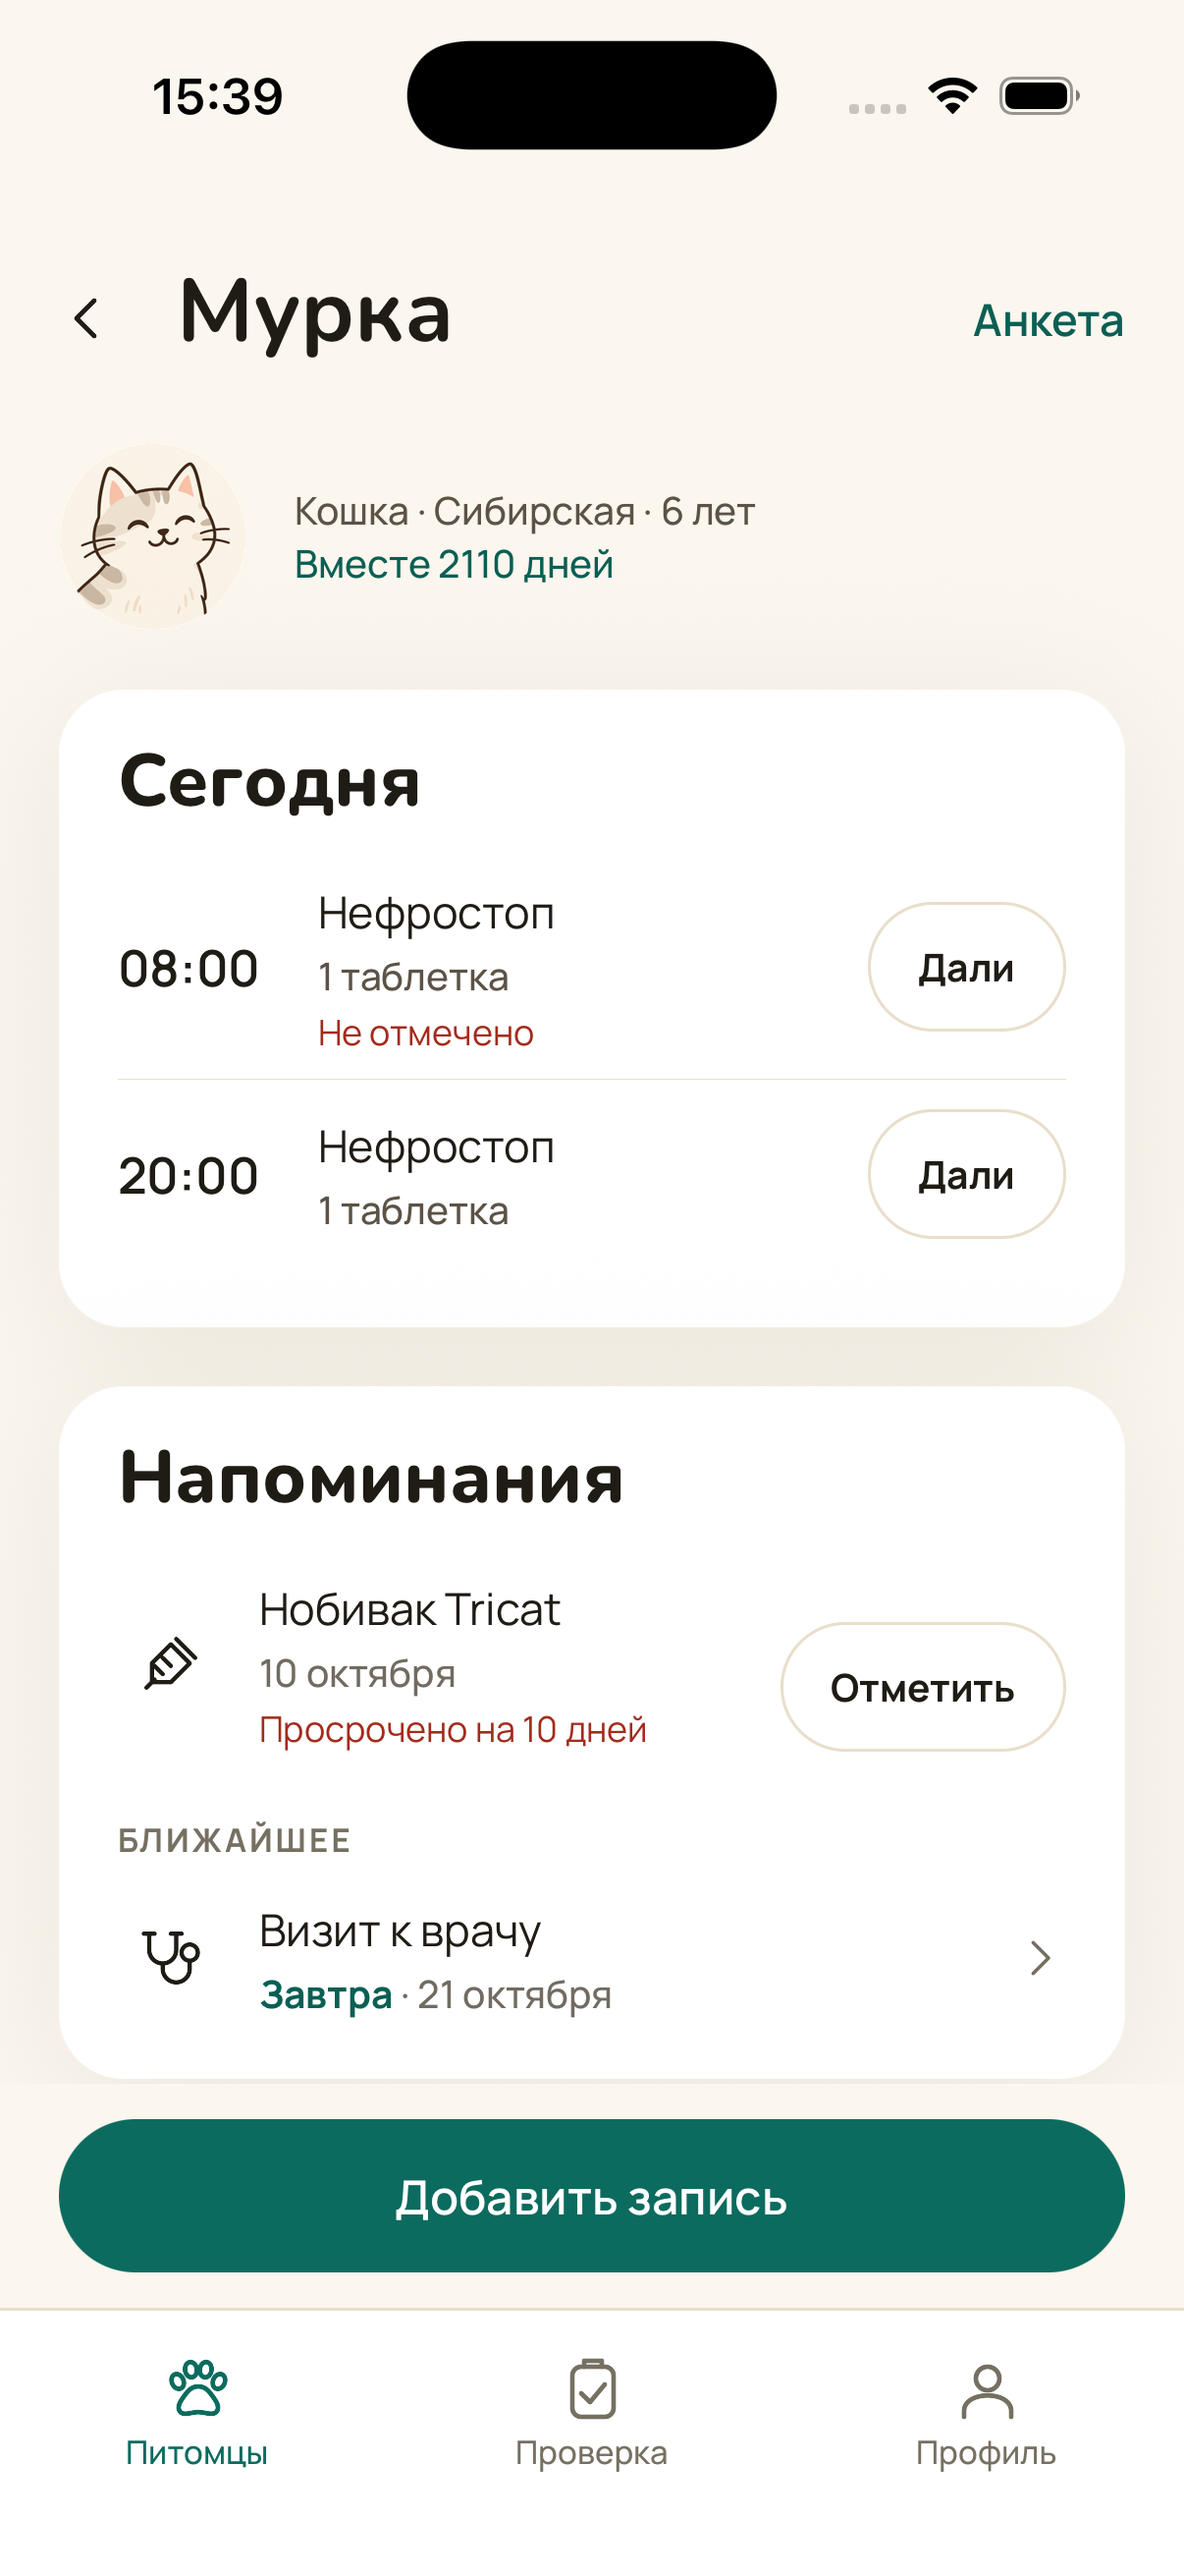
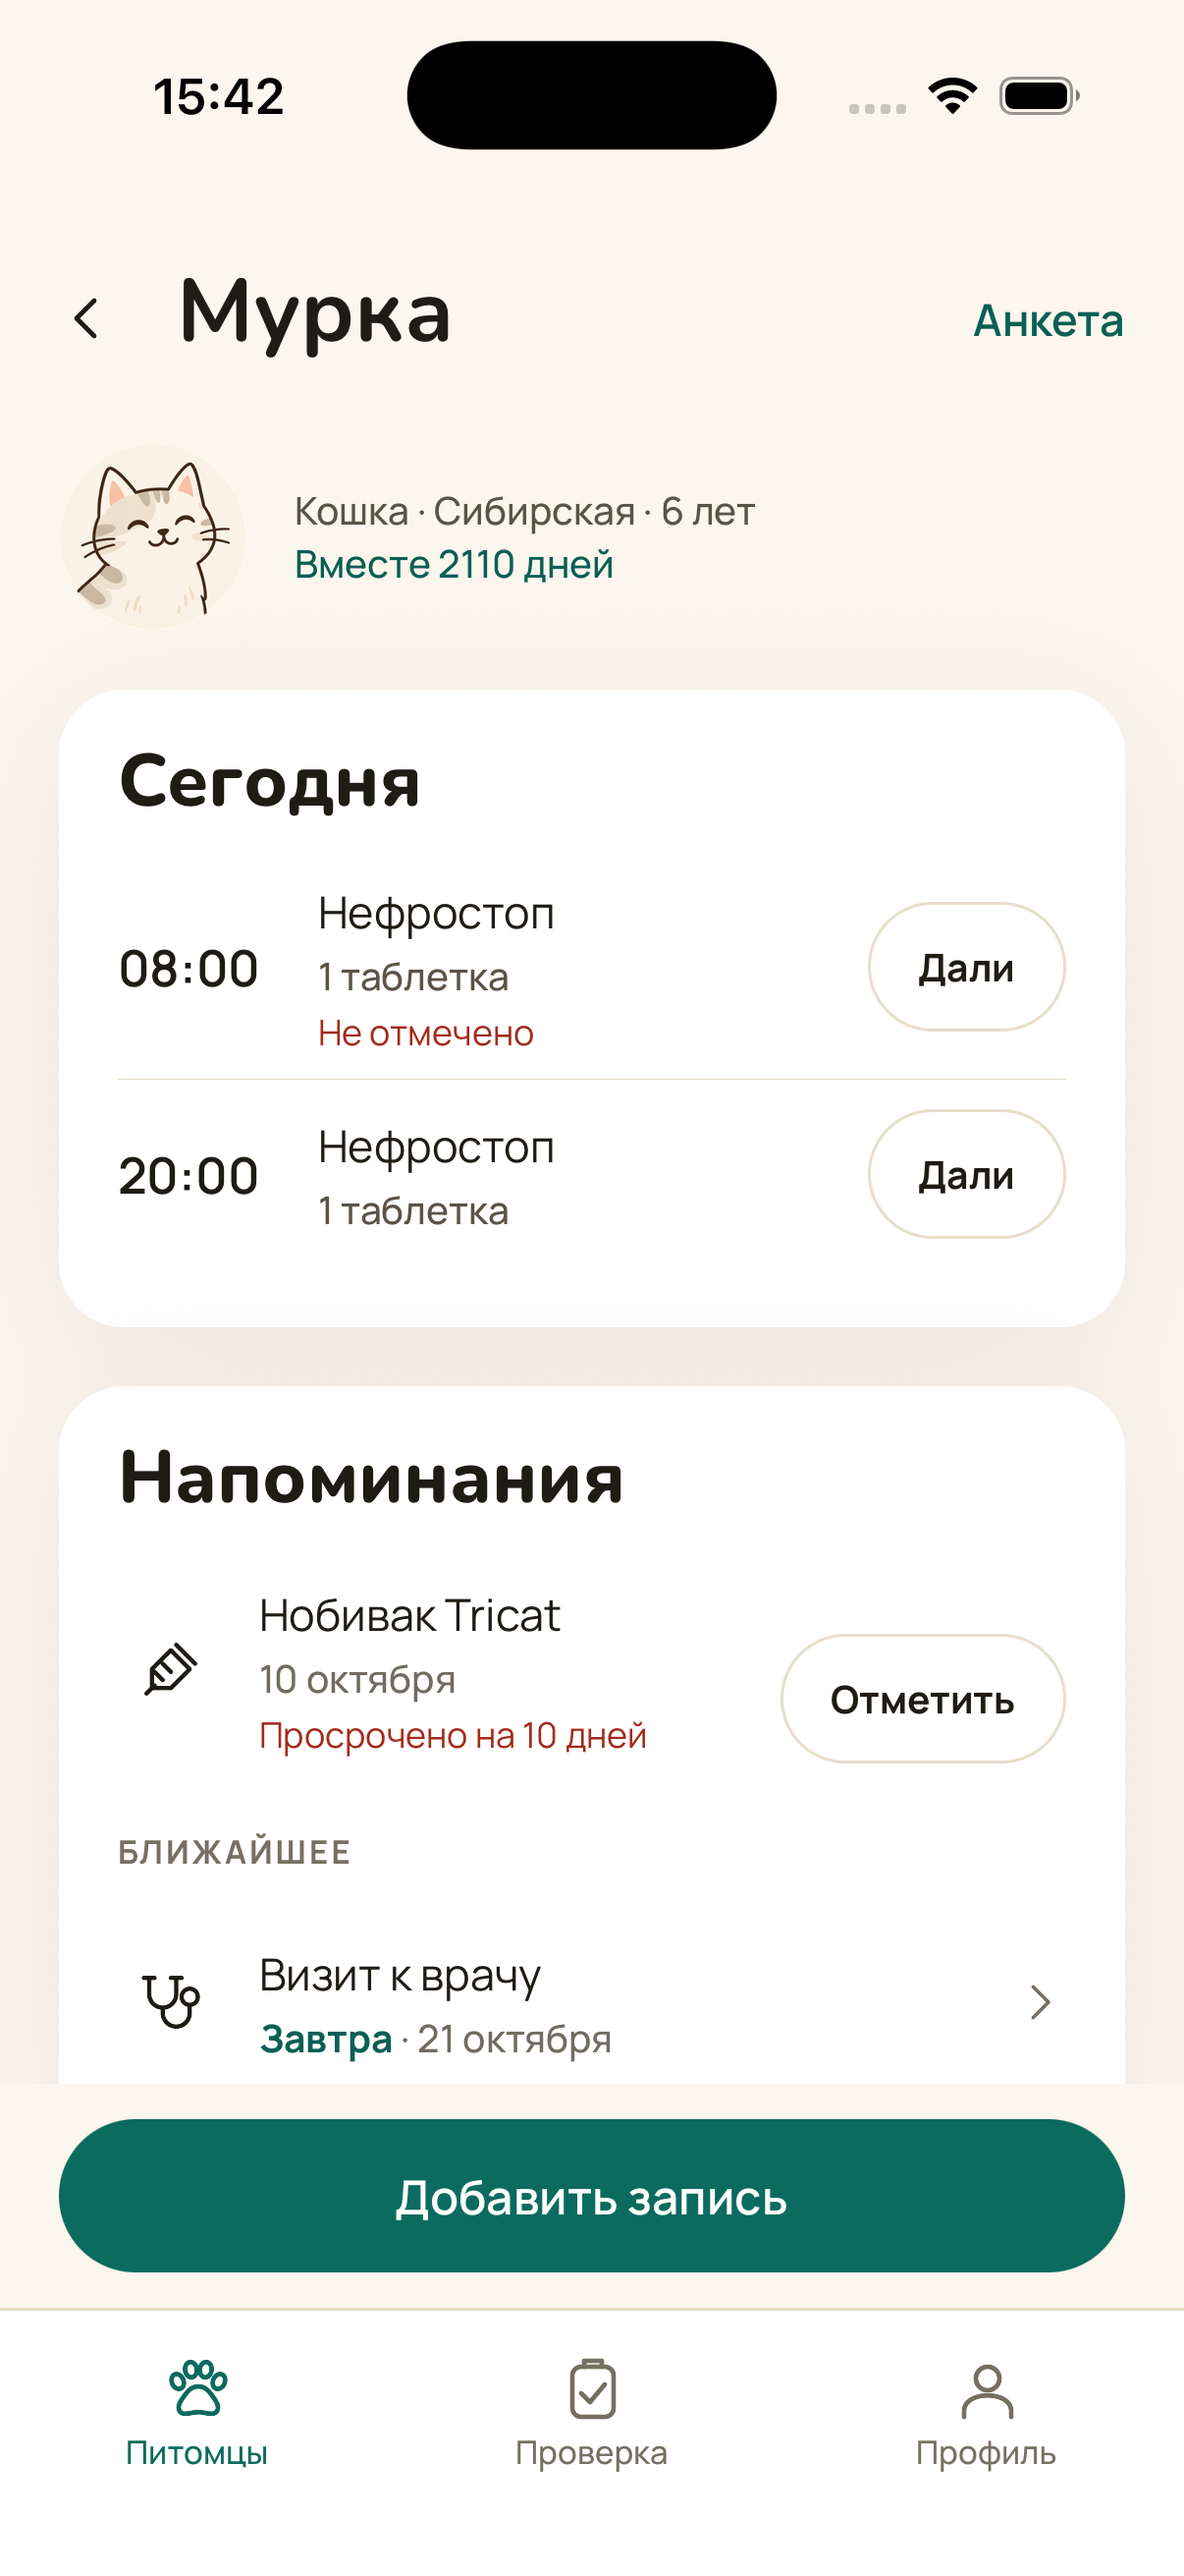
Design: a thin line between rows of «Напоминания», as in «Сегодня»

diff --git a/apps/mobile/src/features/medical-record/DueList.tsx b/apps/mobile/src/features/medical-record/DueList.tsx
@@ -36,15 +36,18 @@ export function DueList({
             </Text>
           )}
           <View style={group.tone === 'overdue' ? styles.overdueRows : styles.rows}>
-            {group.rows.map(({ due, status }) => (
-              <DueRow
-                key={due.itemId}
-                due={due}
-                status={status}
-                markable={marksFromRow(due.date, today)}
-                onOpen={() => onOpen(due)}
-                onDone={() => onDone(due)}
-              />
+            {/* A thin line between rows, as between doses in «Сегодня» (design 20 October 2026). */}
+            {group.rows.map(({ due, status }, row) => (
+              <View key={due.itemId}>
+                {row > 0 ? <View style={styles.divider} /> : null}
+                <DueRow
+                  due={due}
+                  status={status}
+                  markable={marksFromRow(due.date, today)}
+                  onOpen={() => onOpen(due)}
+                  onDone={() => onDone(due)}
+                />
+              </View>
             ))}
           </View>
         </View>
@@ -56,6 +59,7 @@ export function DueList({
 const styles = StyleSheet.create({
   group: { marginTop: 23 },
   heading: { color: colour.faint, fontWeight: '700', letterSpacing: 1, marginBottom: 12 },
-  overdueRows: { gap: 20 },
-  rows: { gap: 16 },
+  overdueRows: {},
+  rows: {},
+  divider: { height: StyleSheet.hairlineWidth, backgroundColor: colour.line, marginVertical: 10 },
 })

diff --git a/apps/mobile/src/features/medical-record/DueRow.tsx b/apps/mobile/src/features/medical-record/DueRow.tsx
@@ -118,7 +118,7 @@ function DateLine({ status }: { status: DueStatus }) {
 }
 
 const styles = StyleSheet.create({
-  row: { flexDirection: 'row', alignItems: 'center', gap: ICON_GAP },
+  row: { flexDirection: 'row', alignItems: 'center', gap: ICON_GAP, minHeight: 64 },
   stacked: { flexDirection: 'column', alignItems: 'stretch', gap: 10 },
   open: { flex: 1, minWidth: 0 },
   head: { flexDirection: 'row', alignItems: 'center', gap: ICON_GAP },

diff --git a/docs/verification/design-2026-10-20.md b/docs/verification/design-2026-10-20.md
@@ -17,6 +17,8 @@
 | `TodayDoses.tsx` | До отметки — «Дали»; после — «✓ Дали» под дозировкой и бирюзовое текстовое «Отменить» справа, без рамки и иконки; на время запроса — спиннер на месте действия. Для скринридера — «Снять отметку приёма: Нефростоп, 08:00». Колонка действия фиксированной ширины. При крупном шрифте строка складывается: время, лекарство, действие. |
 | `Button.tsx` | Размер `compact` для действий в строке: по ширине слова, 44 pt в высоту. |
 
+Между строками одной группы — тонкая линия, как между приёмами в «Сегодня». Подзаголовки групп («Ближайшее», «Позже») оставлены: задание просит сохранить группировку, хотя в макете их нет.
+
 ## 2. Иллюстрации
 
 Набор `docs/design/cartoon-illustrations-v2/` обрезан по прозрачным полям, вписан в квадрат и приведён к прежним размерам: в приложении `welcome-pets`, `pets-together` (720 px), `avatar-cat`, `avatar-dog` (288 px); на сайте все пять (840/256/420 px). Прозрачность сохранена, светлый круг аватаров — часть рисунка. Логотип, иконка приложения, `google-g.png`, `nav-pets.svg` не тронуты. Фото питомца по-прежнему важнее рисунка (`Avatar`).
